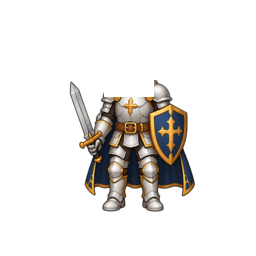
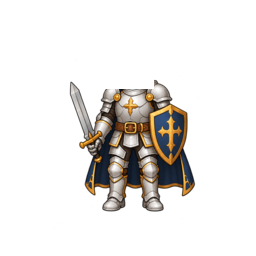
Restore authored outfit necklines

Changed region(s): [[0.4062, 0.3438, 0.625, 0.4062]]

diff --git a/avatar-basic-pack-contract-selftest.js b/avatar-basic-pack-contract-selftest.js
@@ -13,6 +13,8 @@ const whole=fs.readFileSync(path.join(root,'server/whole-character-catalog.js'),
 const index=fs.readFileSync(path.join(root,'index.html'),'utf8');
 const contract=fs.readFileSync(path.join(root,'assets/avatar-production-contract-v2.css'),'utf8');
 const variants=fs.readFileSync(path.join(root,'assets/avatar-base-variants-v1.js'),'utf8');
+const outfitBake=fs.readFileSync(path.join(root,'scripts/bake-avatar-outfit-v2.py'),'utf8');
+const previewBake=fs.readFileSync(path.join(root,'scripts/build-avatar-shop-previews.py'),'utf8');
 
 for(const phrase of ['기본 캐릭터 변형 → 한벌 의상 → 효과 → 펫','체육관 / 보건실 / 3-1반 교실 / 급식실','마을 전체 그래픽 리디자인'])assert.ok(direction.includes(phrase),`production direction missing: ${phrase}`);
 for(const phrase of ['별도의 `hair` 상품은 더 이상 만들지 않는다','몸체 크기, 목·어깨 위치, 발 중앙, 캔버스 기준점을 완전히 동일하게 유지'])assert.ok(direction.includes(phrase),`base variant direction missing: ${phrase}`);
@@ -43,6 +45,8 @@ for(const name of ['silver-knight.png','star-mage.png','school-scientist.png','f
 }
 assert.ok(renderer.includes('onePiece:true'),'production outfits must use the shared one-piece head/neck mask');
 assert.ok(studentShop.includes("shop-preview-base shop-preview-head-only"),'student shop must use the shared head/neck mask');
+assert.ok(outfitBake.includes('FACE_KEEP_OUT = (104, 48, 153, 88)'),'outfit bake must preserve authored necklines from Y=89');
+assert.ok(previewBake.includes('HEAD_BOTTOM = 89'),'shop preview head mask must meet the authored neckline at Y=89');
 assert.ok(!fs.existsSync(path.join(root,'server/avatar-shop-pack-v5.js')),'temporary v5 catalog must be removed');
 assert.ok(!catalog.includes('avatarShopPackV4')&&!catalog.includes('avatarShopPackV5'),'production catalog must not merge temporary packs');
 assert.ok(studentShop.includes("item.slot==='character'"),'student shop must retain future base-character product support');

diff --git a/avatar-assets.css b/avatar-assets.css
@@ -18,5 +18,5 @@
 .shop-wearable-preview .shop-preview-outfit{transform:none!important}
 .shop-preview-composite{display:block!important;width:100%!important;height:100%!important;object-fit:contain!important;transform:none!important}
 
-/* One shared 256x256 head/neck mask for every production one-piece renderer. */
+/* One shared 256x256 head mask. Authored outfit necklines begin at Y=89. */
 .sv-avatar-one-piece>.player-icon,.sv-avatar-one-piece>.preview-base,.sv-avatar-one-piece>.sv-rank-base,.sv-avatar-one-piece>.sv-profile-base,.sv-avatar-one-piece>.sv-exp2-base,.sv-avatar-one-piece>.shop-preview-base{clip-path:inset(0 0 65.3% 0)!important;-webkit-clip-path:inset(0 0 65.3% 0)!important;overflow:hidden!important}

diff --git a/scripts/bake-avatar-outfit-v2.py b/scripts/bake-avatar-outfit-v2.py
@@ -17,8 +17,10 @@ FILES = [
 MASTER = 256
 TARGET_BODY_X = 128
 TARGET_FOOT_Y = 237
-# Production outfits own the body; the approved base owns the face/head opening.
-FACE_KEEP_OUT = (104, 48, 153, 96)
+# Production outfits own the body and neckline; the approved base owns only
+# the face/head opening.  Clearing through Y=96 erased eight rows of authored
+# collars after the fixed -8 anchor translation and created a visible gap.
+FACE_KEEP_OUT = (104, 48, 153, 88)
 
 
 def alpha(img: Image.Image):

diff --git a/scripts/build-avatar-shop-previews.py b/scripts/build-avatar-shop-previews.py
@@ -15,7 +15,8 @@ FILES = [
     "silver-knight.png",
     "star-mage.png",
 ]
-HEAD_BOTTOM = 97
+# The outfit owns the neckline from Y=89. Keep the base head above it only.
+HEAD_BOTTOM = 89
 
 
 def main() -> None:
